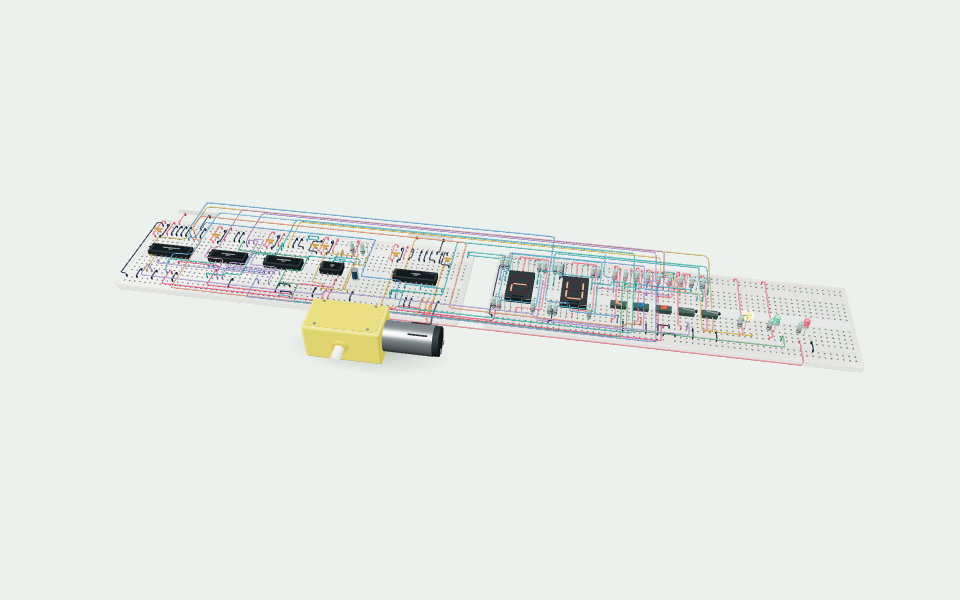
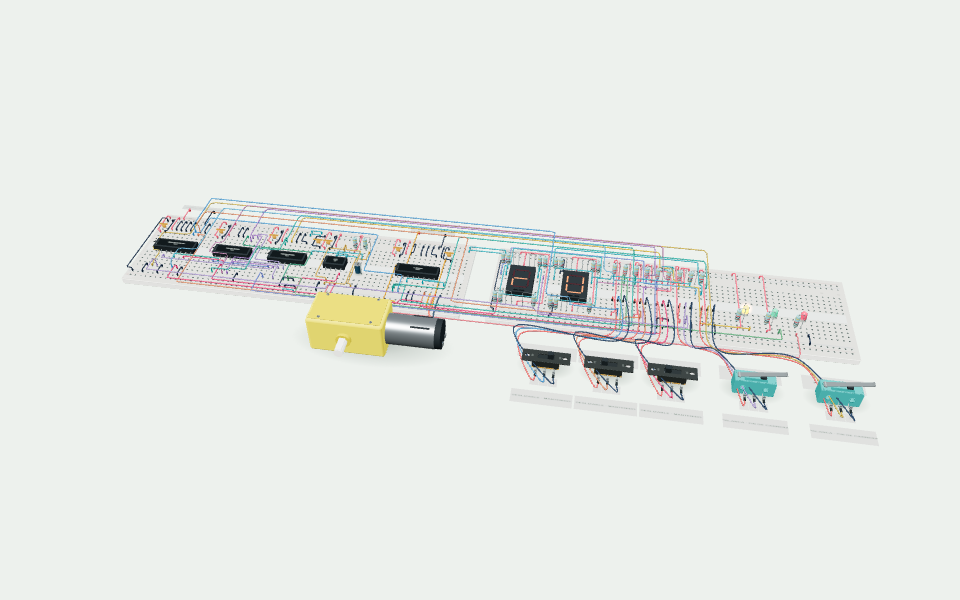
Refresh door previews with the external controls

Changed region(s): [[0.125, 0.33, 0.9062, 0.69]]

diff --git a/README.md b/README.md
@@ -33,7 +33,7 @@ Los enlaces siguen siendo enlaces nativos. `showcase.js` registra las transicion
 
 Al preparar por primera vez el 3D se presenta una imagen de referencia del circuito. La cubierta se desvanece al estar listo el visor; volver a 2D la retira inmediatamente. Alternar un visor ya preparado no repite la cubierta. Las conexiones marcadas, el paso y la selección siguen perteneciendo a los controladores originales.
 
-Con el servidor local activo, `npm run build:showcase` regenera las nueve imágenes y su registro de estados; `npm run test:showcase` comprueba secuencias, pausas, movimiento reducido, navegación nativa, carga 3D retenida, cancelación y progreso sin cambios.
+Con el servidor local activo, `npm run build:showcase` regenera las nueve imágenes y su registro de estados (`npm run build:showcase -- --door` actualiza solo puerta y su imagen de portada); `npm run test:showcase` comprueba secuencias, pausas, movimiento reducido, navegación nativa, carga 3D retenida, cancelación y progreso sin cambios.
 
 ## Mandos externos del circuito LS151
 
